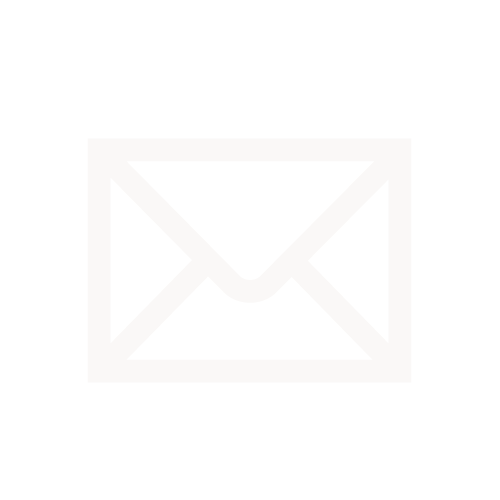
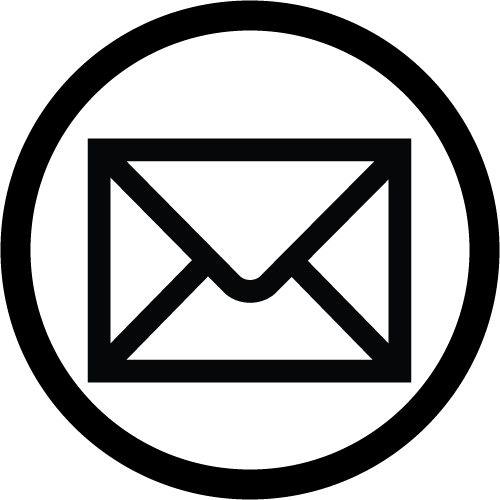
swapped white contact images to black for better contrast, removed code concerning individual image that had been removed

diff --git a/script.js b/script.js
@@ -500,7 +500,7 @@ loadMyContact = () => {
   target="_blank"
   href="https://www.linkedin.com/in/jacob-garlick/"
   ><img
-    id="contact-images-linked"
+    id="contact-images"
     src="assets/images/links/LinkedIn-White.png"
 /></a>
 
